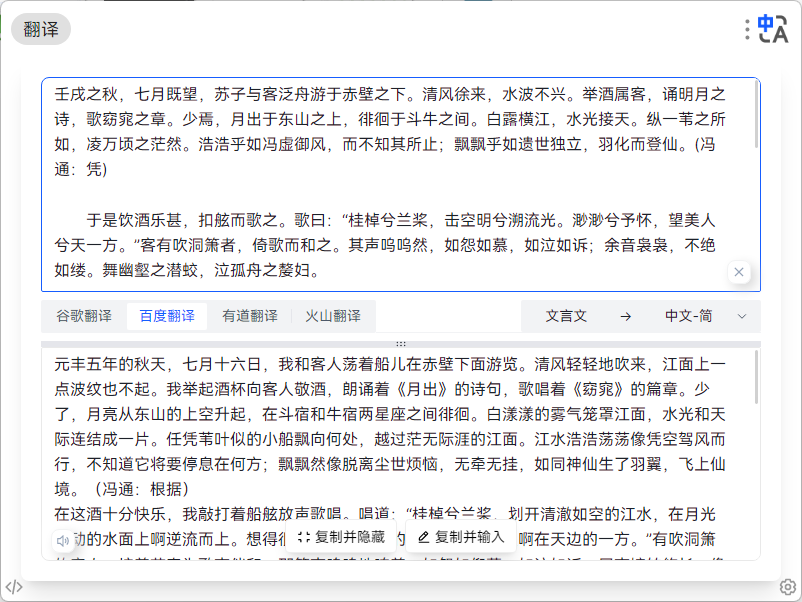
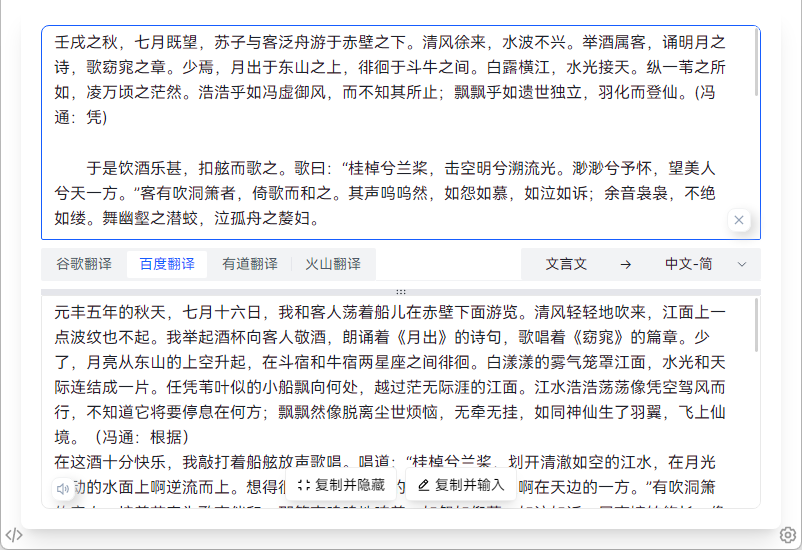
docs(): 📝 更新描述，更新截图

diff --git a/README.md b/README.md
@@ -35,7 +35,9 @@
 |德语|✅|✅|✅|✅|✅||✅|
 |法语|✅|✅|✅|✅|✅||✅|
 |中文-繁体|✅|✅|✅|✅|✅||✅|
+|粤语|✅|||✅|✅|||
 |文言文|✅|||||||
+
 
 ## 代码模式快捷键
 
